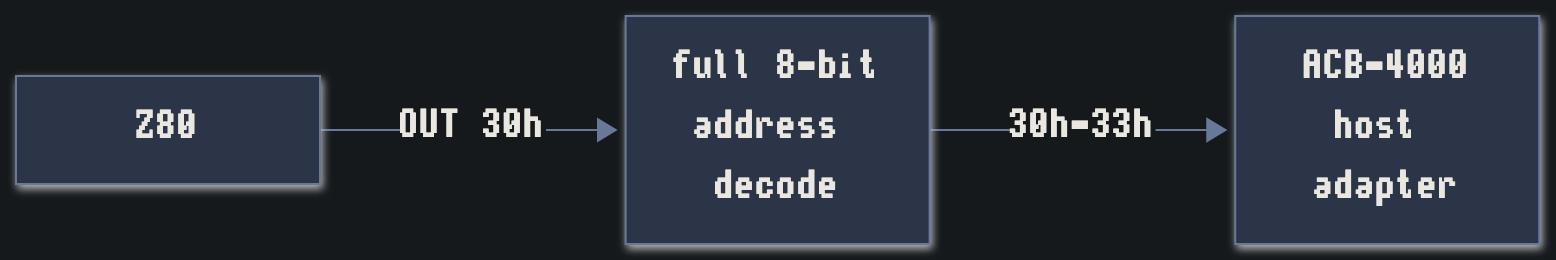
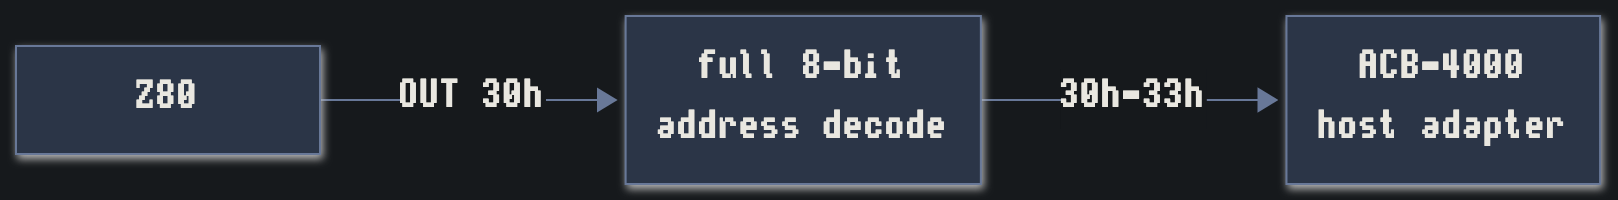
docs: the boot flow's drive letters, and the label wrapping that made it tall (#191)
Two things, both from review.

**The last box was wrong.** It said `A0 prompt, and B: is the second partition`.
It now carries the drive map, which is the part that actually surprises people:

- `A:` and `B:` are the hard disk -- the `CP/M-A` and `CP/M-B` partitions
- the floppies move to `D:` and `E:`, because the driver's type table gives
  drives 0-2 the three hard-disk descriptors and the floppies begin at drive 3
- `C:` is the third descriptor, and on the geometry in use it selects and nothing
  answers.  It is the one letter in the diagram that is a promise rather than a
  description: a bigger drive underneath it -- the drive table's `PYXIS27`, or any
  geometry with the room -- and `C:` is real.  Which is where the library goes.

The prose says the same, with the measured detail behind it: from `D:` the
relocated floppy is fully readable, directory and all (`docs/md10-system.md`).

**And mermaid's default label wrapping was making the diagram enormous.** It
wraps at 200px, and the machine's face is wide, so labels broke into four or five
short lines and the image came out 720x3324 -- which the ~624px reading column
then *upscaled*, putting it at 2880px tall on the page.

Widening the wrap to 340px fixes both at once: nodes wrap less, and the image gets
wider, which reduces the upscale.  Measured:

| | before | after |
|---|---|---|
| image | 720x3324 | 1400x1944 |
| displayed height at 624px | 2880px | **866px** |
| effective type | 34.7px | 17.8px |
[…]

diff --git a/tools/render_mermaid.py b/tools/render_mermaid.py
@@ -101,8 +101,15 @@ def build_config(path):
             'clusterBkg': '#12161a', 'clusterBorder': BLUE,
             'titleColor': INK,
         },
-        'flowchart': {'curve': 'basis', 'nodeSpacing': 45, 'rankSpacing': 55,
-                      'padding': 12, 'useMaxWidth': False},
+        'flowchart': {'curve': 'basis', 'nodeSpacing': 45, 'rankSpacing': 45,
+                      'padding': 12, 'useMaxWidth': False,
+                      # Mermaid wraps labels at 200px by default, and the machine's
+                      # face is wide -- so labels broke into four or five short
+                      # lines and the diagram grew tall and thin.  Wider nodes wrap
+                      # less *and* make the image wider, which matters: the reading
+                      # column is ~624px, so a narrow image is upscaled and its
+                      # height grows with it.
+                      'wrappingWidth': 340},
     }, open(path, 'w'), indent=1)
 
 

diff --git a/site/_posts/2026-10-13-the-ports-the-machine-cannot-reach.md b/site/_posts/2026-10-13-the-ports-the-machine-cannot-reach.md
@@ -96,6 +96,19 @@ Note the dotted line. `HCBOOT` is the monitor's **hard-disk boot entry point**, 
 in the shipped 1.44 source it is a `JMP START` stub: the vector exists and it does
 nothing with it. That is the next step.
 
+**And note what happens to the drive letters**, because it is the part that
+surprises people. The hard disk takes *three* of them — `A:`, `B:` and `C:` —
+because the driver's type table gives drives 0 to 2 the three hard-disk
+descriptors, and the floppies begin at drive 3. So the disk you just booted from
+is now `D:`, and the second physical drive is `E:`. The relocation is not
+cosmetic: from `D:` the floppy is fully readable, directory and all.
+
+`C:` is the third descriptor, and on the drive geometry in use it selects and
+nothing answers — there is only room for two partitions. That is the one letter
+in this diagram that is a promise rather than a description. Put a bigger drive
+underneath it — the drive table's `PYXIS27`, or any geometry with the room — and
+`C:` is a real drive. Which is exactly where the library goes.
+
 ## The next step is the ROM.
 
 The MD-10 experience as it stands still needs a floppy. You boot the utilities
